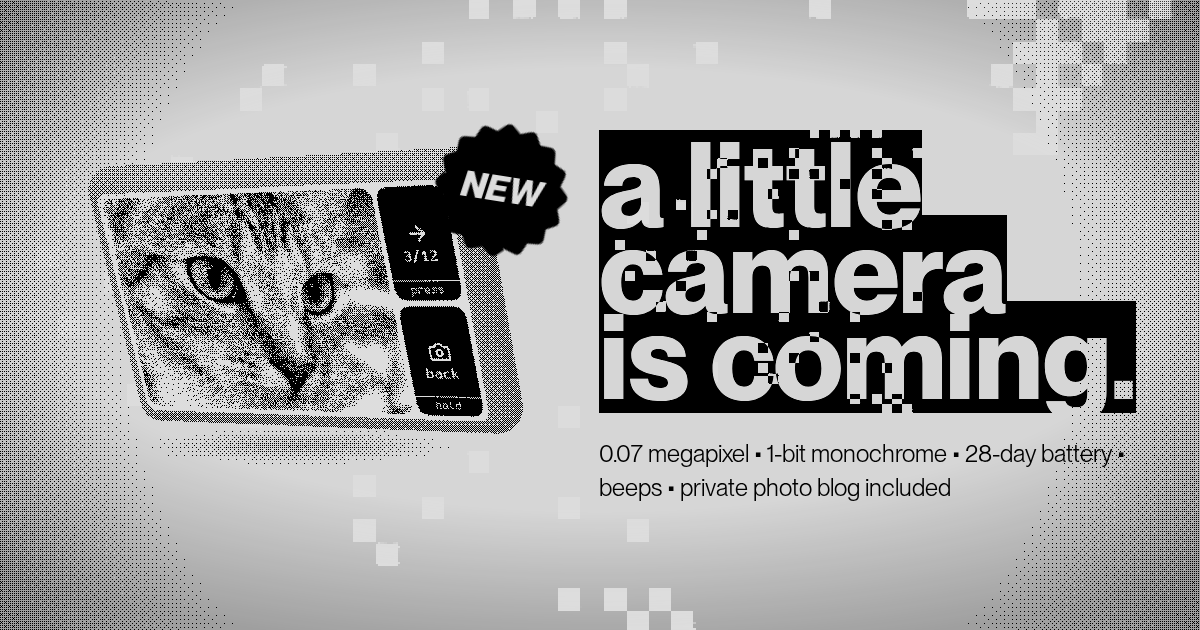
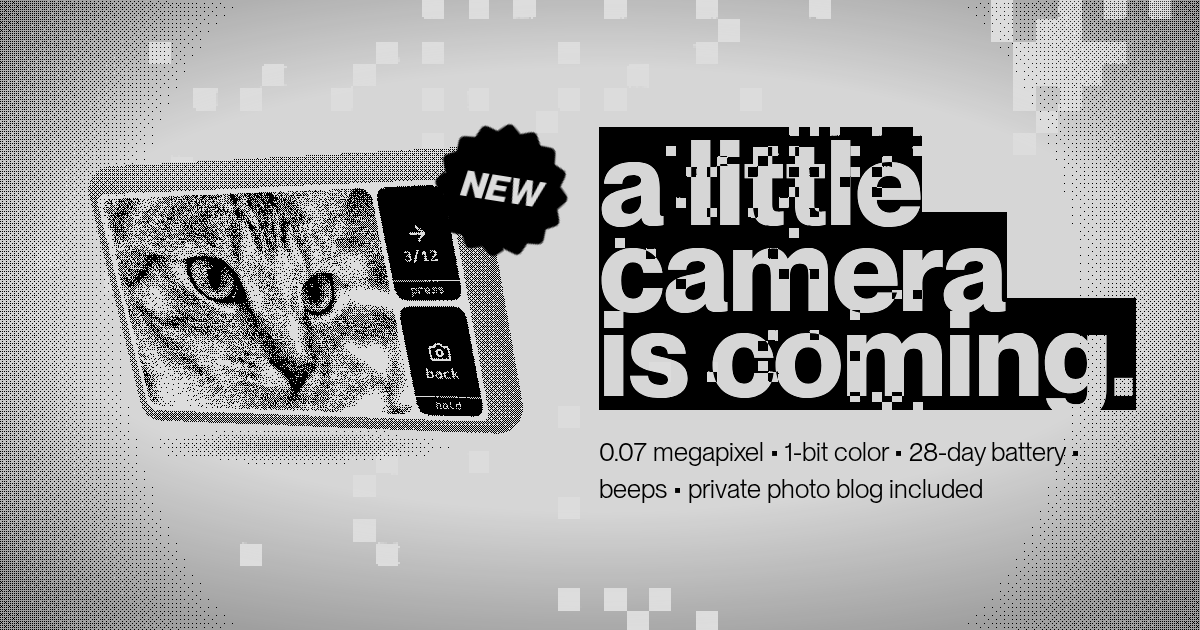
chore(site): 1-bit color
"1-bit monochrome" -> "1-bit color" in the page, the three descriptions
and the card. One bit is two colours, so it is true as well as dry.

The shorter string takes the card off the shrink path: the measured split
finds one that fits at the full 25.92px, where the five-bullet line had
been coming down to 24.

Claude-Session: https://claude.ai/code/session_018Do1eGLFYYJFzp83wMP41s

diff --git a/site/index.html b/site/index.html
@@ -4,7 +4,7 @@
 <meta charset="utf-8">
 <meta name="viewport" content="width=device-width, initial-scale=1, viewport-fit=cover">
 <title>little camera — a 1-bit microblog pocket camera</title>
-<meta name="description" content="0.07 megapixel • 1-bit monochrome • 28-day battery • beeps • private photo blog included">
+<meta name="description" content="0.07 megapixel • 1-bit color • 28-day battery • beeps • private photo blog included">
 <link rel="canonical" href="https://lttl.cam/">
 <meta name="color-scheme" content="light">
 <meta name="theme-color" content="#dddddd">
@@ -17,7 +17,7 @@
      dither, same glitched headline. -->
 <meta property="og:site_name" content="lttl.cam">
 <meta property="og:title" content="little camera — a 1-bit microblog pocket camera">
-<meta property="og:description" content="0.07 megapixel • 1-bit monochrome • 28-day battery • beeps • private photo blog included">
+<meta property="og:description" content="0.07 megapixel • 1-bit color • 28-day battery • beeps • private photo blog included">
 <meta property="og:type" content="website">
 <meta property="og:url" content="https://lttl.cam/">
 <meta property="og:locale" content="en">
@@ -28,7 +28,7 @@
 <meta property="og:image:alt" content="a small dithered camera beside the words a little camera is coming.">
 <meta name="twitter:card" content="summary_large_image">
 <meta name="twitter:title" content="little camera — a 1-bit microblog pocket camera">
-<meta name="twitter:description" content="0.07 megapixel • 1-bit monochrome • 28-day battery • beeps • private photo blog included">
+<meta name="twitter:description" content="0.07 megapixel • 1-bit color • 28-day battery • beeps • private photo blog included">
 <meta name="twitter:image" content="https://lttl.cam/media/og.png">
 <meta name="twitter:image:alt" content="a small dithered camera beside the words a little camera is coming.">
 <!-- The headline is fitted by measuring the font that actually resolved, so a
@@ -441,7 +441,7 @@ h1 span{display:block; width:fit-content; white-space:nowrap}
       </video>
       <h1><span>a little</span><span>camera</span><span>is coming.</span></h1>
     </div>
-    <p class="by"><span>0.07 megapixel • 1-bit monochrome • 28-day battery • beeps • private photo blog included</span></p>
+    <p class="by"><span>0.07 megapixel • 1-bit color • 28-day battery • beeps • private photo blog included</span></p>
   </div>
 
   <div class="stage">

diff --git a/site/README.md b/site/README.md
@@ -488,7 +488,7 @@ than the screen:
 | camera | `--sheet` x 0.88 |
 | gap between them | `--sheet` x 0.12 |
 
-The spec line under the headline — "0.07 megapixel • 1-bit monochrome • 28-day
+The spec line under the headline — "0.07 megapixel • 1-bit color • 28-day
 battery • beeps • private photo blog included" — sits in the flow, aligned to the
 same left edge. It is set in Book rather than Bold, at a little over a quarter
 of the headline's size, and set solid on hard black where the headline is film
